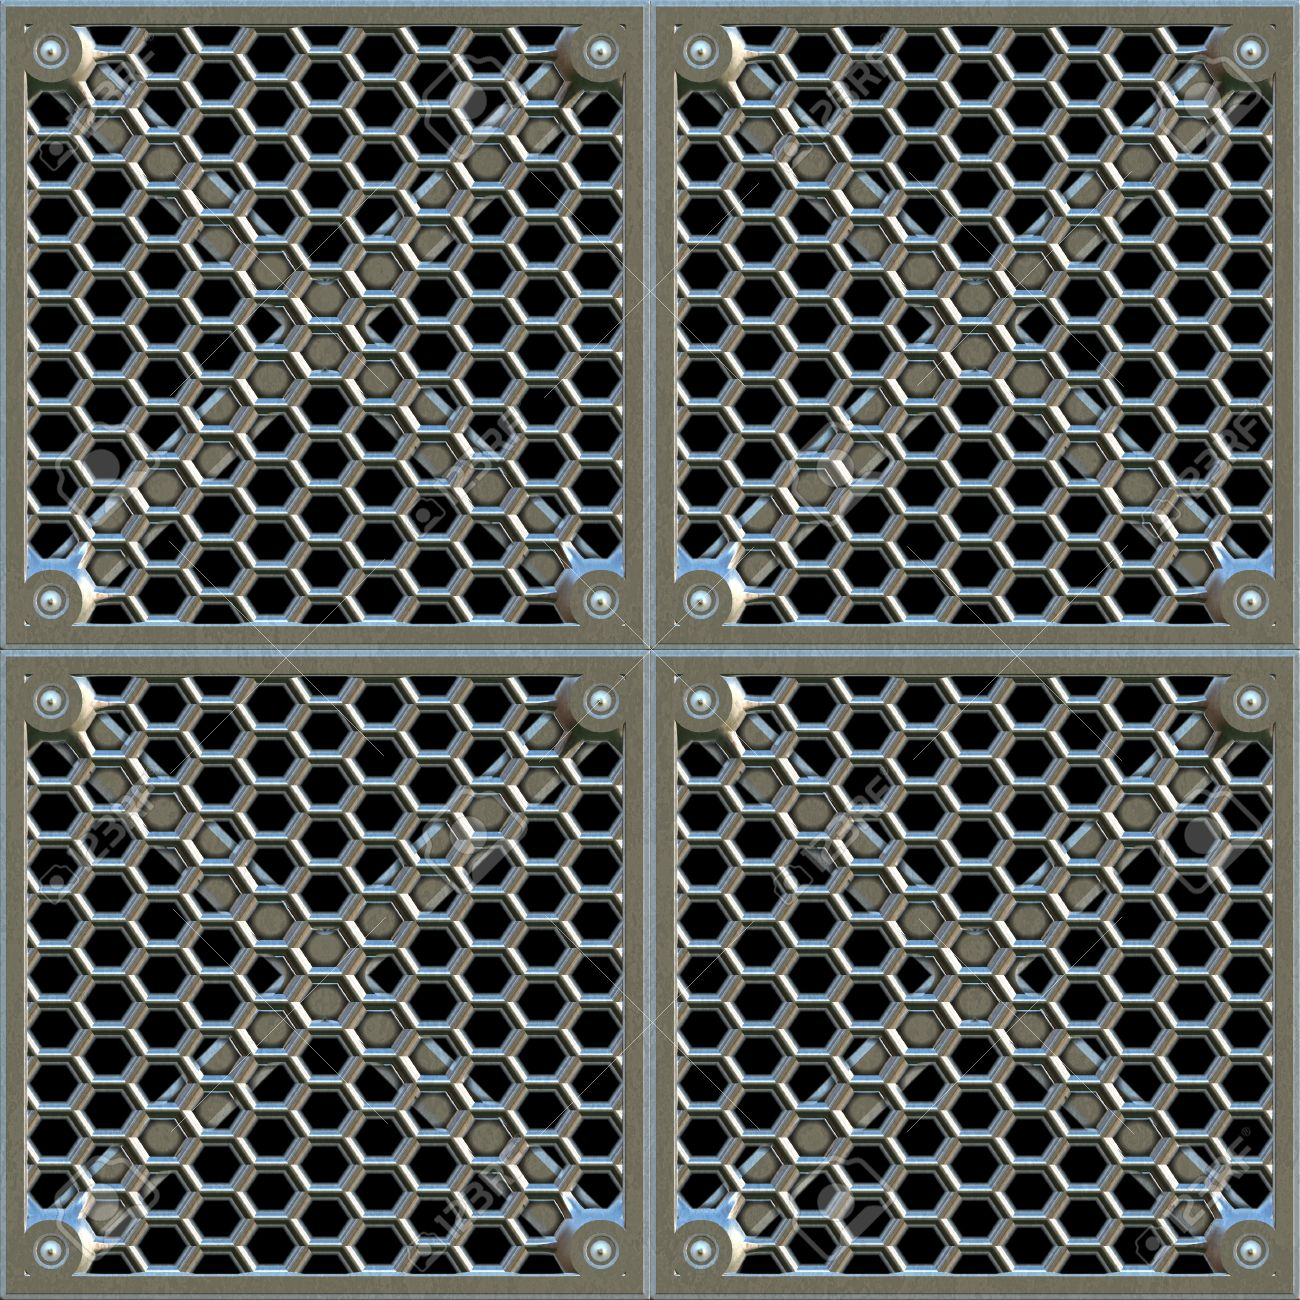
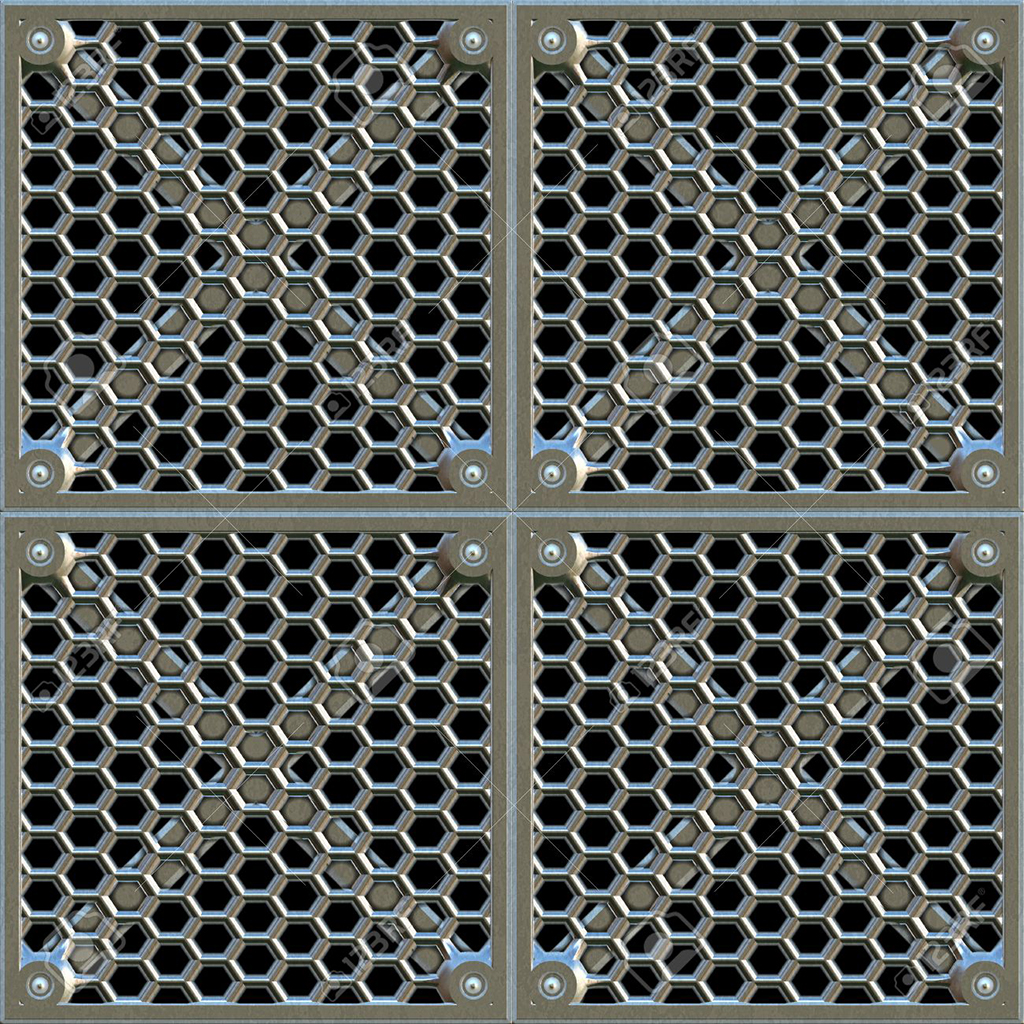
update to tunnel -fixing crash

diff --git a/src/TunnelRender.js b/src/TunnelRender.js
@@ -1,7 +1,7 @@
 import THREE from './Three';
 
-import stone from '../resources/images/grate.jpg';
-import bmp from '../resources/images/grate_bmp.jpg';
+import stone from '../resources/images/matallo.jpg';
+import bmp from '../resources/images/matallo_bmp.jpg';
 
 // Render Class Object //
 export default class Render {
@@ -12,7 +12,7 @@ export default class Render {
     this.devicePixelRatio = window.devicePixelRatio;
     // Configurations //
     this.cameraConfig = {
-      position: [0, 0, -100],
+      position: [0, 0, 0],
       lookAt: [0, 0, 0],
       aspect: this.width / this.height,
       viewAngle: 45,
@@ -27,8 +27,6 @@ export default class Render {
     window.addEventListener('resize', this.resize, true);
 
     this.init();
-    this.createScene();
-    this.renderLoop();
   }
 
   init = () => {
@@ -49,7 +47,7 @@ export default class Render {
     );
 
     this.camera.position.set(...this.cameraConfig.position);
-    // this.camera.lookAt(new THREE.Vector3(...this.cameraConfig.lookAt));
+    this.camera.lookAt(new THREE.Vector3(...this.cameraConfig.lookAt));
     this.scene.add(this.camera);
 
     // Set Light //
@@ -57,12 +55,16 @@ export default class Render {
     this.scene.add(this.camlight);
     this.light = new THREE.PointLight(0xAAAAAA, 1, 150);
     this.scene.add(this.light);
+    this.farlight = new THREE.PointLight(0xFFFFFF, 1, 350);
+    this.scene.add(this.farlight);
+
+    this.createScene();
   };
 
   getRandomVector = () => {
-    const x = 0.0 + Math.random() * 25;
-    const y = 0.0 + Math.random() * 35;
-    const z = 0.0 + Math.random() * 15;
+    const x = 0.0 + Math.random() * 255;
+    const y = 0.0 + Math.random() * 255;
+    const z = 0.0 + Math.random() * 255;
     return new THREE.Vector3(x, y, z);
   }
 
@@ -72,25 +74,30 @@ export default class Render {
     const texture = texloader.load(stone, () => {
       texture.wrapS = texture.wrapT = THREE.RepeatWrapping;
       texture.offset.set(0, 0);
-      texture.repeat.set(150, 4);
+      texture.repeat.set(155, 3);
     });
-    const bmpMap = texloader.load(bmp, () => {});
-    this.tunnelMaterial = new THREE.MeshLambertMaterial({
+    const bmpMap = texloader.load(bmp, () => {
+      bmpMap.wrapS = bmpMap.wrapT = THREE.RepeatWrapping;
+      bmpMap.offset.set(0, 0);
+      bmpMap.repeat.set(155, 3);
+    });
+
+    this.tunnelMaterial = new THREE.MeshPhongMaterial({
       map: texture,
       bumpMap: bmpMap,
-      bumpScale: 0.85,
+      bumpScale: 0.09,
       side: THREE.DoubleSide,
     });
     const initialPoints = [
       [68.5, 0.0, 185.5],
-      [1, 120.0, 262.5],
-      [270.9, 223.0, 281.9],
-      [345.5, 100.0, 212.8],
-      [178, -15.50, 155.7],
-      [240.3, 540.0, 72.3],
-      [153.4, -65.33, 0.6],
-      [52.6, 325.0, 53.3],
-      [68.5, 100.0, 185.5]
+      [40, 50.0, 262.5],
+      [170.9, 100.0, 281.9],
+      [300, 120.0, 212.8],
+      [178, 20.0, 155.7],
+      [240.3, 150.0, 82.3],
+      [153.4, 70.0, 20.6],
+      [52.6, 20.0, 53.3],
+      [68.5, 0.0, 185.5]
     ];
     const points = initialPoints.map((point) => {
       const v3Point = new THREE.Vector3(...point);
@@ -99,7 +106,7 @@ export default class Render {
     this.path = new THREE.CatmullRomCurve3(points);
     // Create a mesh
     const tube = new THREE.Mesh(
-      new THREE.TubeGeometry(this.path, 300, 2, 20, true),
+      new THREE.TubeGeometry(this.path, 100, 1.5, 15, true),
       this.tunnelMaterial
   );
     // Add tube into the scene
@@ -107,6 +114,7 @@ export default class Render {
 
     this.effect = new THREE.AnaglyphEffect(this.renderer);
     this.effect.setSize(this.width, this.height);
+    this.renderLoop();
   };
 
   resize = () => {
@@ -117,27 +125,24 @@ export default class Render {
   };
 
   renderScene = () => {
+    // set Frame
+    const frame = this.frames * 0.00001;
+    // Get the point at the specific percentage
+    const p1 = this.path.getPointAt(frame % 1);
+    const p2 = this.path.getPointAt((frame + 0.001) % 1);
+    // Place objects on path
+    this.camlight.position.set(p1.x, p1.y, p1.z);
+    this.camera.position.set(p1.x, p1.y, p1.z);
+    this.camera.lookAt(p2);
+    this.light.position.set(p2.x, p2.y, p2.z);
     // Core three Render call //
     // this.renderer.render(this.scene, this.camera);
     this.effect.render(this.scene, this.camera);
   };
 
   renderLoop = () => {
-    if (this.frames % 1 === 0) {
-      // some function here for throttling
-      // Increase the percentage
-      const frame = this.frames * 0.00004;
-      // Get the point at the specific percentage
-      const p1 = this.path.getPointAt(frame % 1);
-      const p2 = this.path.getPointAt((frame + 0.01) % 1);
-      // Place the camera at the point
-      this.camlight.position.set(p1.x, p1.y, p1.z);
-      this.camera.position.set(p1.x, p1.y, p1.z);
-      this.camera.lookAt(p2);
-      this.light.position.set(p2.x, p2.y, p2.z);
-    }
-    this.renderScene();
     this.frames ++;
+    this.renderScene();
     window.requestAnimationFrame(this.renderLoop);
   };
 }

diff --git a/README.md b/README.md
@@ -1,5 +1,5 @@
 ![travis ci build](https://travis-ci.org/pjkarlik/ThreeExperiments.svg?branch=master)
-![webpack2](https://img.shields.io/badge/webpack-2.0-brightgreen.svg) ![version](https://img.shields.io/badge/version-0.1.0-yellow.svg) ![frontend](https://img.shields.io/badge/webgl-GLSL-blue.svg)
+![webpack2](https://img.shields.io/badge/webpack-2.0-brightgreen.svg) ![version](https://img.shields.io/badge/version-0.1.1-yellow.svg) ![frontend](https://img.shields.io/badge/webgl-GLSL-blue.svg)
 
 # ThreeJS Experiments
 
@@ -17,11 +17,12 @@
   // ...etc for other items like Render Passes and Shaders
   ```
 
-  Current Mapping --> ```index.js``` --> (render file) ```ObjectMaterials.js``` (or just about any other file in src)
+  Current Mapping --> ```index.js``` --> (render file) ```TunnelRender.js``` (or just about any other file in src)
 
 
   TODO:// Cleaning up default code, next to do some model loading and management.
 
+  [TunnelLogicRender.js](http://tunneldemo.surge.sh/)
   [AbstractPortalRender.js](http://blacklavalamp.surge.sh/)
   [LiquidLandscape.js](http://threeboilerplate-light.surge.sh/)
   [SkullRender.js](http://threeexperiments-skull.surge.sh/)
